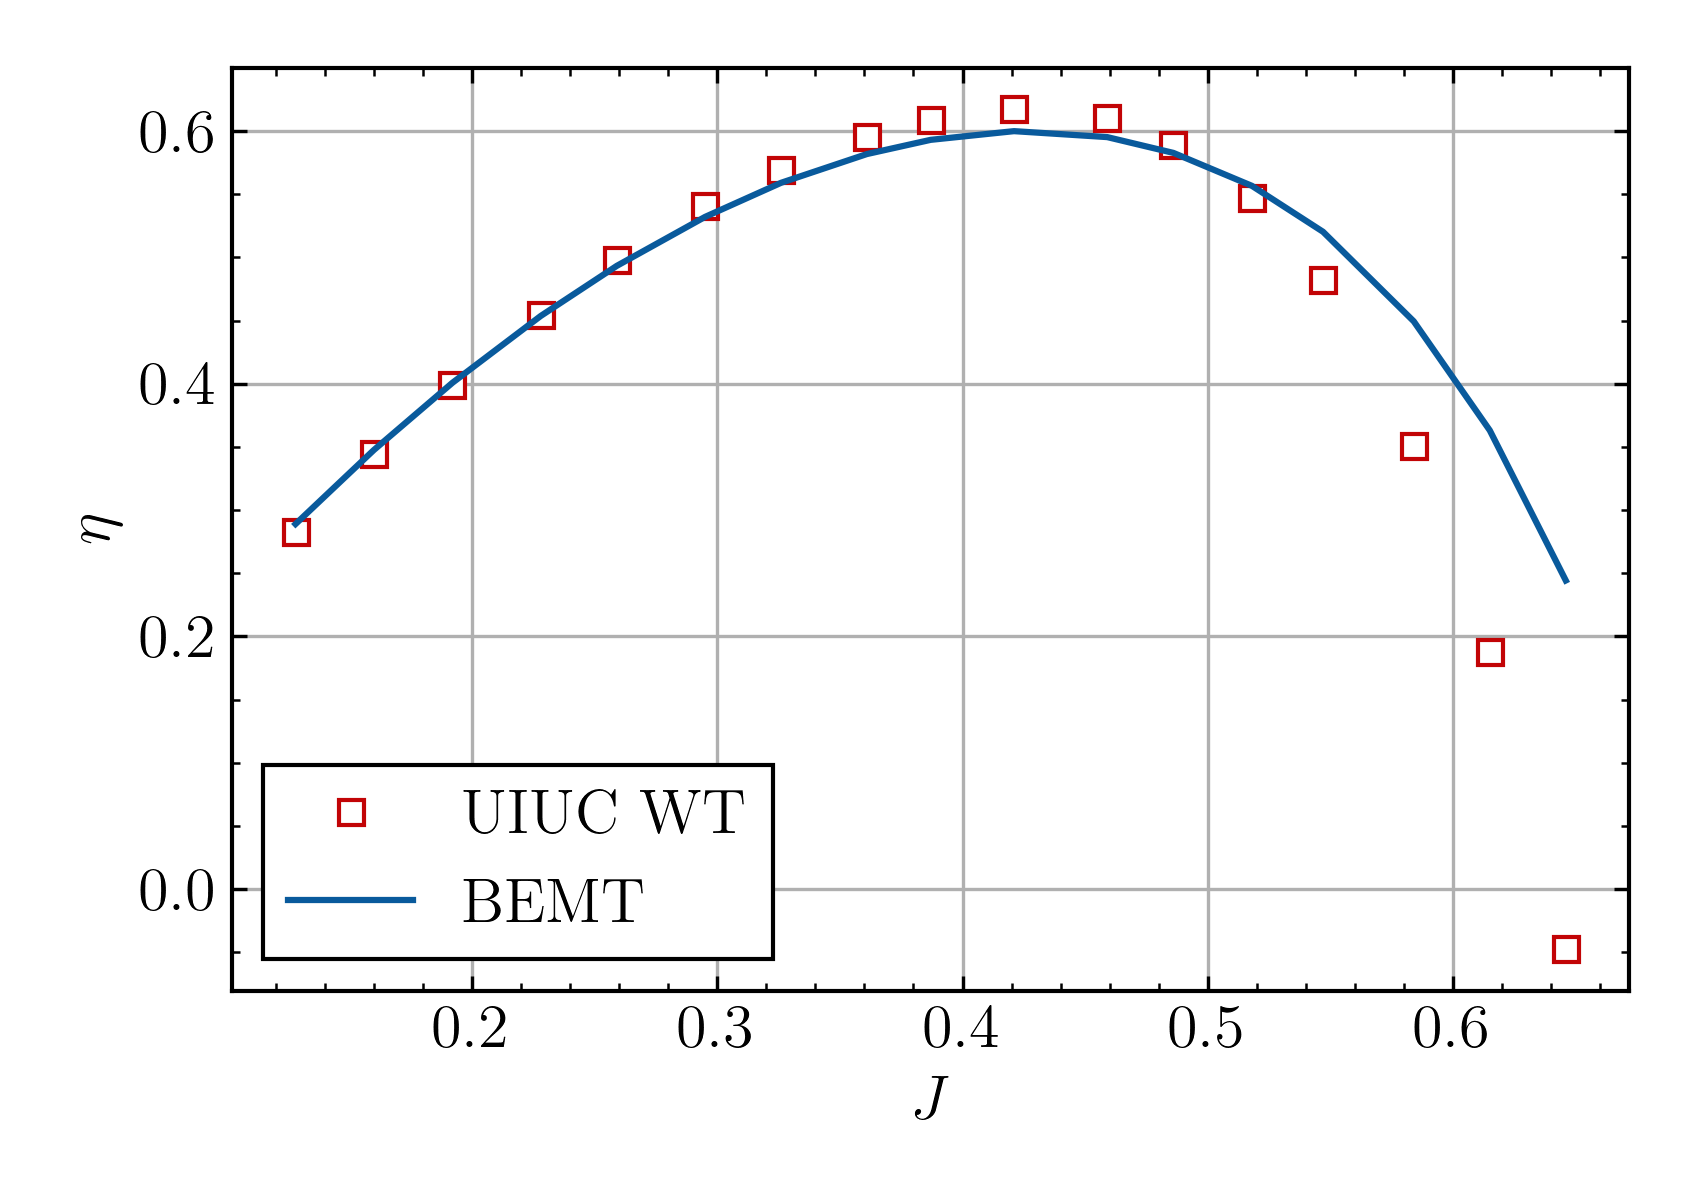
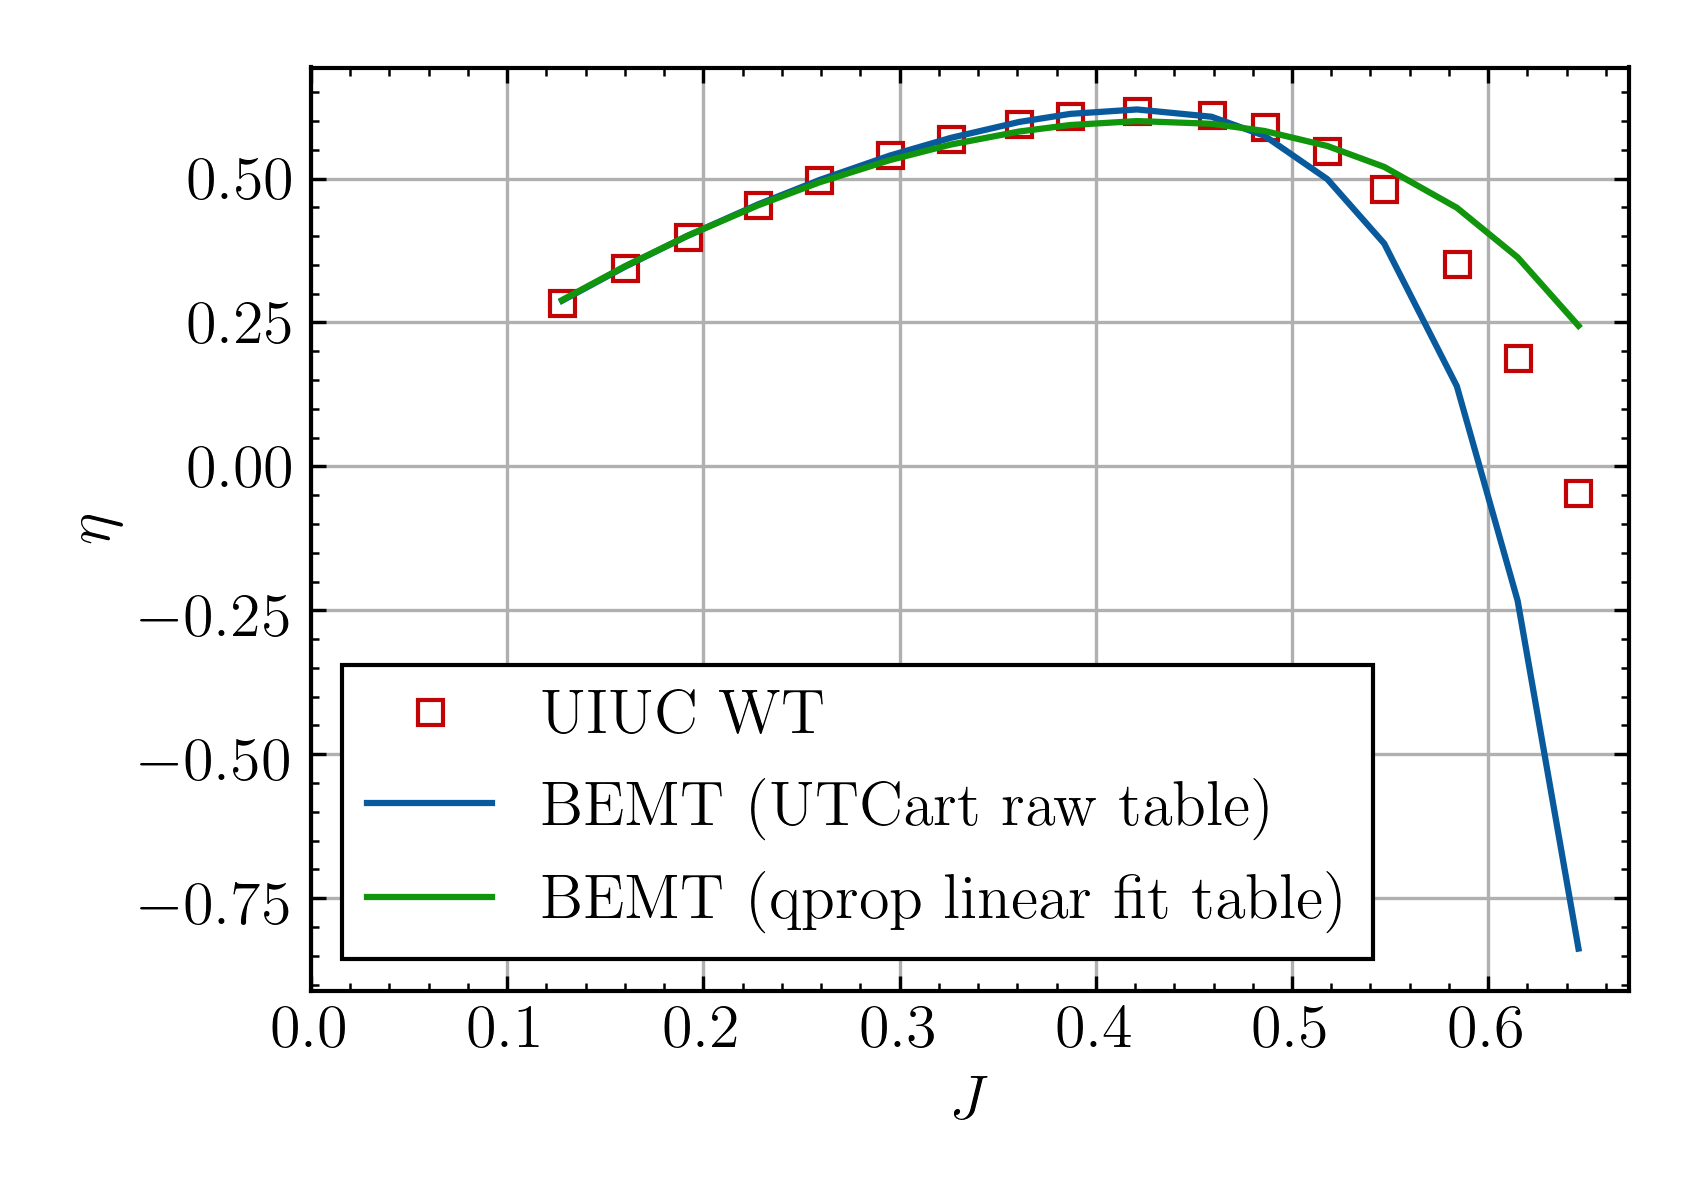
uiuc comparsion OK

diff --git a/ANALYSIS/validation/validation-uiuc.py b/ANALYSIS/validation/validation-uiuc.py
@@ -18,6 +18,9 @@ R = 0.1143
 hfprop_Cp = []
 hfprop_Ct = []
 hfprop_eta = []
+hfprop_Cp_smoozedtable = []
+hfprop_Ct_smoozedtable = []
+hfprop_eta_smoozedtable = []
 
 os.chdir('..')
 
@@ -51,6 +54,25 @@ for J in uiuc_J:
     hfprop_Cp.append(Cp)
     hfprop_Ct.append(Ct)
     hfprop_eta.append(eta)
+    # run the calculation
+    subprocess.run(['python3', 'perform_analysis.py', '--airfoil', 'airfoil-qpropsame.txt'])
+    # load the results and append to the list
+    with open('results.txt', 'r') as file:
+        for line in file:
+            # Skip lines that don't contain the relevant data
+            if not line.startswith('#'):
+                continue
+
+            # Check and extract the values for Ct, Cp, and eta
+            if 'Ct =' in line:
+                Ct = float(line.split('=')[1].strip().split()[0])
+            elif 'Cp =' in line:
+                Cp = float(line.split('=')[1].strip().split()[0])
+            elif 'eta =' in line:
+                eta = float(line.split('=')[1].strip().split()[0])
+    hfprop_Cp_smoozedtable.append(Cp)
+    hfprop_Ct_smoozedtable.append(Ct)
+    hfprop_eta_smoozedtable.append(eta)
         
 os.chdir('validation')
 
@@ -98,9 +120,11 @@ plt.rcParams["legend.edgecolor"] = 'black'  # edgeの色を変更
 
 plt.figure(dpi=300, figsize=(1.414*4, 4))
 plt.plot(uiuc_J, uiuc_Cp, marker='s', linestyle='None', label='UIUC WT')
-plt.plot(uiuc_J, hfprop_Cp, label='BEMT')
+plt.plot(uiuc_J, hfprop_Cp, label='BEMT (UTCart raw table)')
+plt.plot(uiuc_J, hfprop_Cp_smoozedtable, label='BEMT (qprop linear fit table)')
 plt.xlabel('$J$')
 plt.ylabel('$C_P$')
+plt.xlim(0, None)
 plt.legend()
 plt.tight_layout() # 余白を小さくする
 plt.savefig('Cp-J.png')
@@ -108,9 +132,11 @@ plt.savefig('Cp-J.png')
 
 plt.figure(dpi=300, figsize=(1.414*4, 4))
 plt.plot(uiuc_J, uiuc_Ct, marker='s', linestyle='None', label='UIUC WT')
-plt.plot(uiuc_J, hfprop_Ct, label='BEMT')
+plt.plot(uiuc_J, hfprop_Ct, label='BEMT (UTCart raw table)')
+plt.plot(uiuc_J, hfprop_Ct_smoozedtable, label='BEMT (qprop linear fit table)')
 plt.xlabel('$J$')
 plt.ylabel('$C_T$')
+plt.xlim(0, None)
 plt.legend()
 plt.tight_layout() # 余白を小さくする
 plt.savefig('Ct-J.png')
@@ -118,9 +144,11 @@ plt.savefig('Ct-J.png')
 
 plt.figure(dpi=300, figsize=(1.414*4, 4))
 plt.plot(uiuc_J, uiuc_eta, marker='s', linestyle='None', label='UIUC WT')
-plt.plot(uiuc_J, hfprop_eta, label='BEMT')
+plt.plot(uiuc_J, hfprop_eta, label='BEMT (UTCart raw table)')
+plt.plot(uiuc_J, hfprop_eta_smoozedtable, label='BEMT (qprop linear fit table)')
 plt.xlabel('$J$')
 plt.ylabel('$\eta$')
+plt.xlim(0, None)
 plt.legend()
 plt.tight_layout() # 余白を小さくする
 plt.savefig('eta-J.png')
